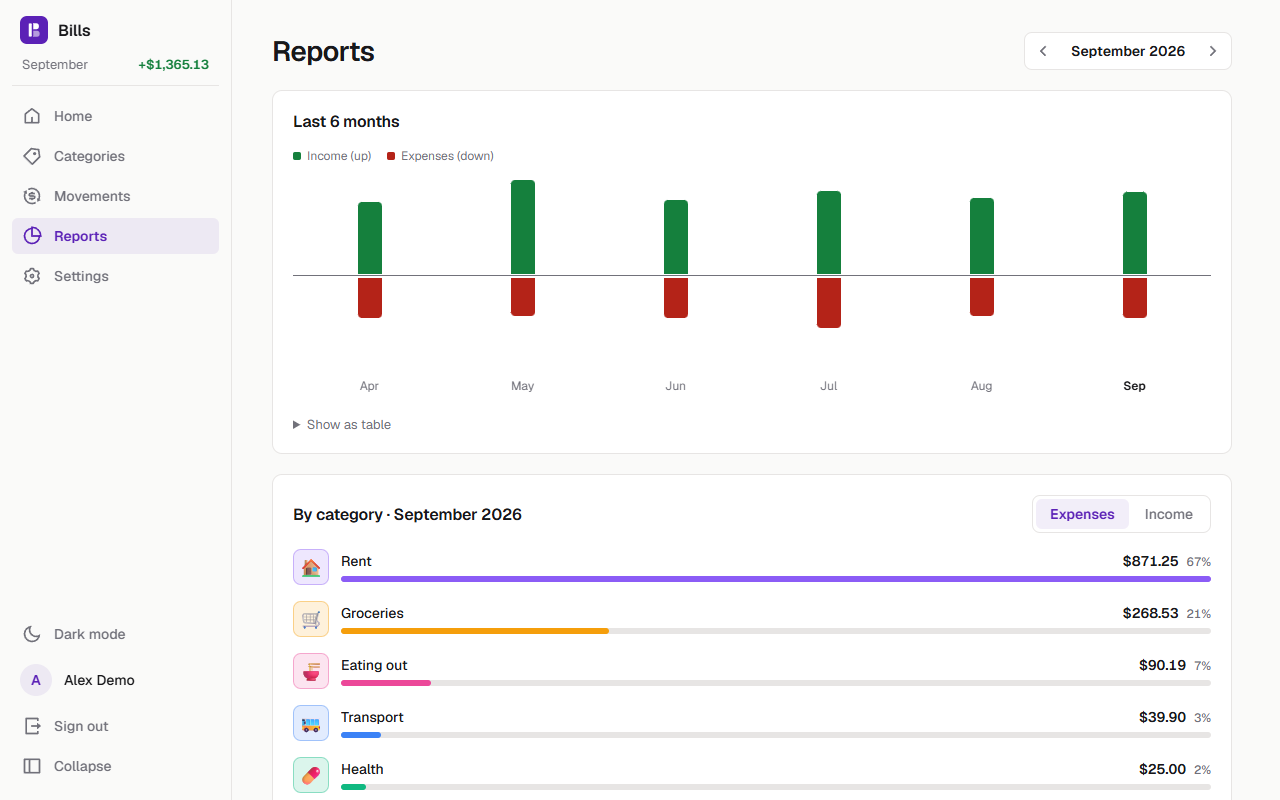
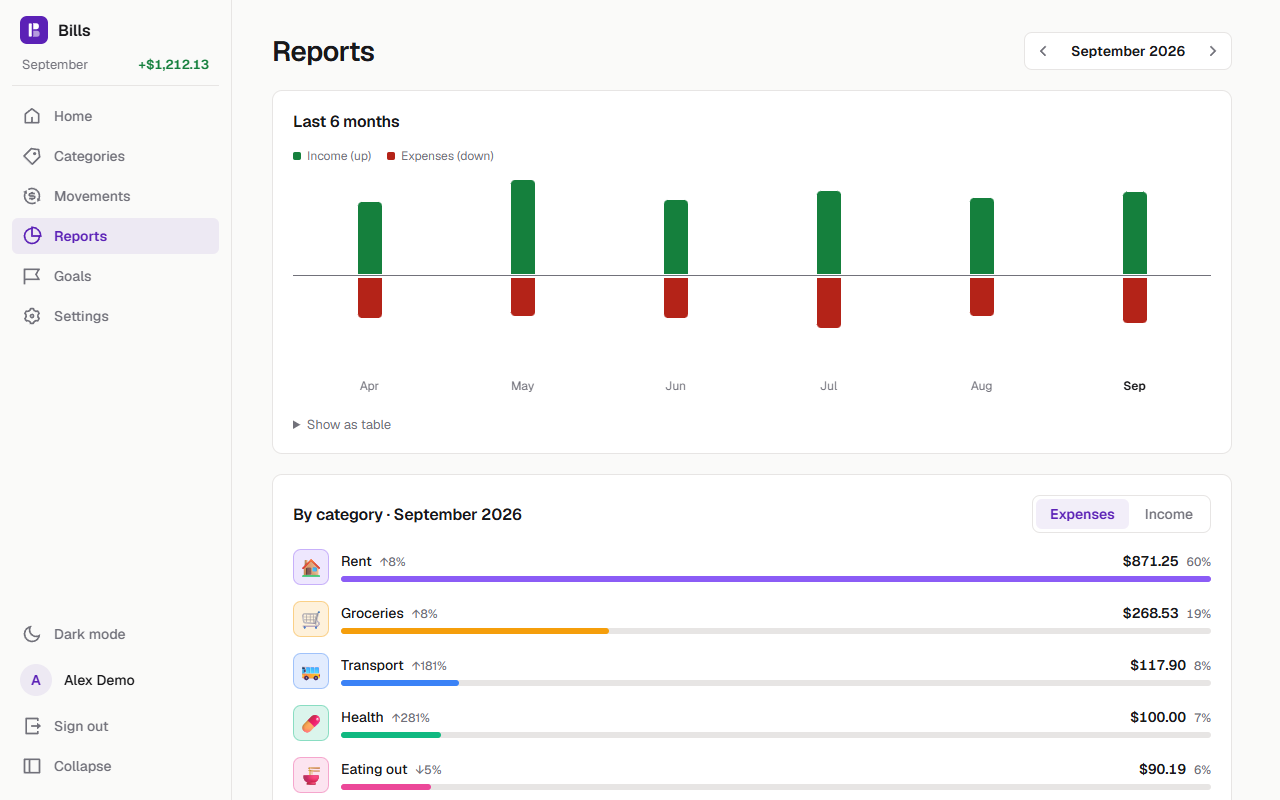
Refresh README features and screenshots

diff --git a/README.md b/README.md
@@ -10,7 +10,9 @@ A personal expense tracker: sign in with Google, organize your categories, log i
 |---|---|
 | ![Movements by month](docs/screenshots/movements.png) | ![Reports: 6-month trend and breakdown by category](docs/screenshots/reports.png) |
 | **Categories** | **Settings** |
-| ![Categories grid with this month's totals](docs/screenshots/categories.png) | ![Settings: name, currency, appearance, delete account](docs/screenshots/settings.png) |
+| ![Categories grid with this month's totals and budgets](docs/screenshots/categories.png) | ![Settings: profile, monthly budget and recurring movements](docs/screenshots/settings.png) |
+| **Goals** | |
+| ![Savings goals: list, progress, monthly pace and history](docs/screenshots/goals.png) | |
 
 <details>
 <summary>Dark theme</summary>
@@ -31,11 +33,14 @@ A personal expense tracker: sign in with Google, organize your categories, log i
 ## Features
 
 - **Google sign-in** via Supabase Auth. Each account only sees its own data (Postgres row-level security).
-- **Home**: what's left of this month's income, this month's spending vs. last month day by day, recent movements, what's still **to pay** (settle it in one click) and top categories.
-- **Categories** for income and expenses, with emoji, color and this month's total.
-- **Movements** by month: amount, category, date, description, paid/pending. Monthly income, expense and net totals.
-- **Reports**: 6-month income vs. expense trend and a ranked breakdown by category, each with an accessible table view.
-- **Settings**: display name, currency (formats every amount), and self-service account deletion.
+- **Home**: what's left of this month's budget (or income), this month's spending vs. last month day by day, recent movements, what's still **to pay** with due dates (settle it in one click), budgets, top categories and active goals.
+- **Categories** for income and expenses, with emoji, color, this month's total and an optional monthly budget.
+- **Movements** by month: amount, category, date, description, paid/pending. Monthly totals, search and filters (text, category, status, amount, all months) and **CSV export** of what you see.
+- **Recurring movements**: weekly, monthly or yearly rules that add pending movements when they're due; pause, resume or delete them in Settings.
+- **Savings goals**: a target, an optional deadline with the monthly pace to reach it, and a history of contributions and withdrawals.
+- **Reports**: 6-month income vs. expense trend and a ranked breakdown by category with month-over-month changes, each with an accessible table view.
+- **Settings**: display name, currency (formats every amount), total monthly budget, recurring movements and self-service account deletion.
+- **Installable** as an app (web manifest).
 - **Appearance**: Light, Dark or System (follows the OS live); light/dark choices sync across devices.
 - **Motion** that respects the OS "reduce motion" setting: figures count, charts draw, lists and pages transition.
 - Responsive: sidebar on desktop, bottom bar on mobile.
@@ -86,6 +91,12 @@ Every table has a `user_id` and RLS policies limiting access to `auth.uid()`.
 
 `20260928000000_category_constraints.sql` makes category names unique per user and type regardless of case, and bounds the icon length.
 
+`20260928100000_budgets.sql` adds an optional monthly budget per expense category and a total on the profile.
+
+`20260928200000_recurring.sql` adds `recurring` rules and links their movements with `movements.recurring_id`.
+
+`20260929000000_goals.sql` adds `goals` and `goal_contributions` (signed amounts; saved = their sum).
+
 ### Google sign-in
 
 1. Google Cloud → Credentials → OAuth client (Web): add `http://localhost:5173` to *Authorized JavaScript origins* and `https://<ref>.supabase.co/auth/v1/callback` to *Authorized redirect URIs*.
@@ -120,7 +131,7 @@ src/
     atoms/ molecules/ organisms/ templates/   # atomic design
   pages/        # one thin wrapper per route (lazy-loaded)
   routers/      # routes + auth guards
-  hooks/        # TanStack Query hooks (categories, movements, totals, reports, profile)
+  hooks/        # TanStack Query hooks (categories, movements, totals, reports, profile, recurring, goals)
   store/        # Zustand stores (auth, theme, month)
   supabase/     # Supabase client
   styles/       # themes, design tokens, global styles
